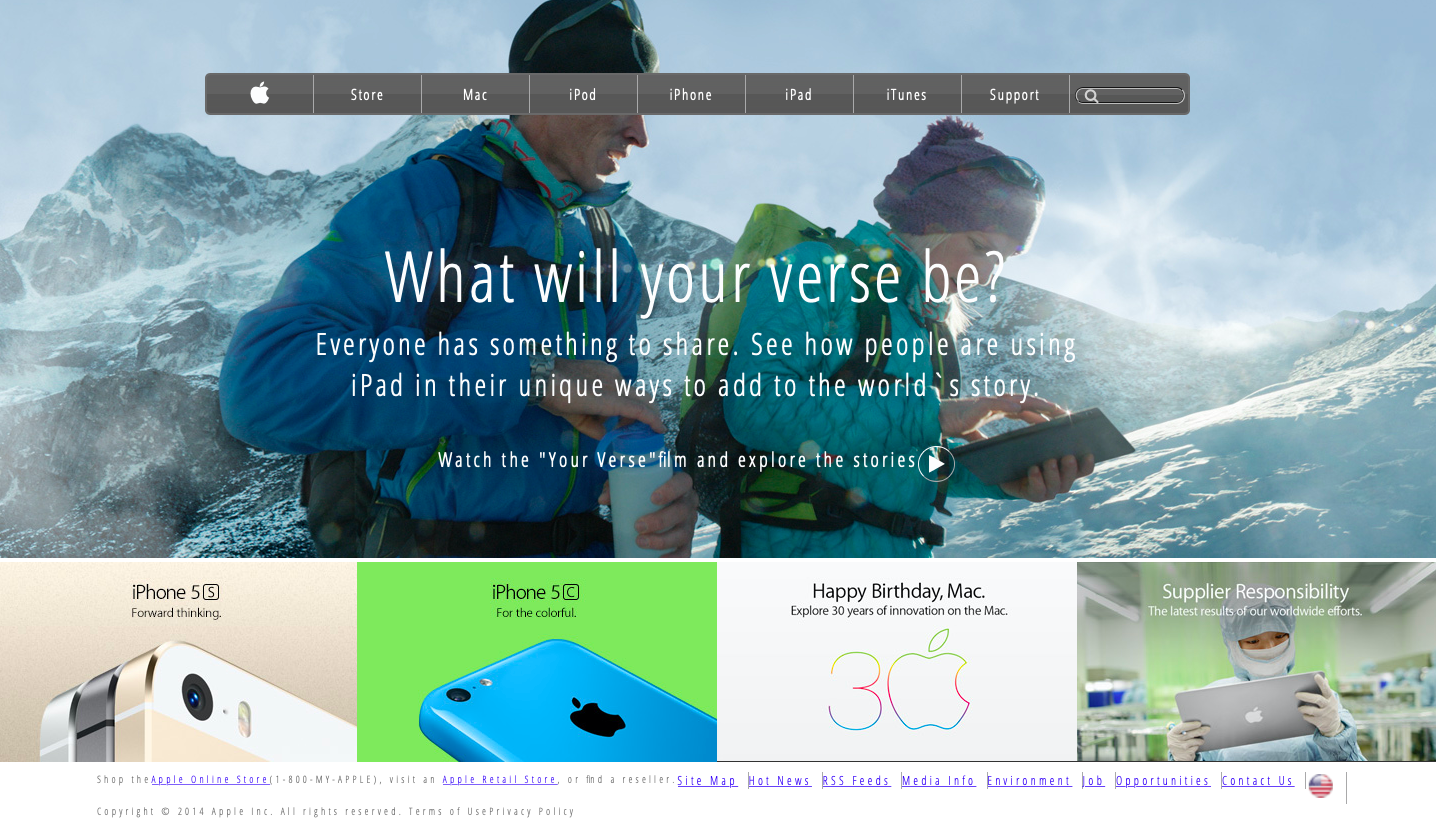
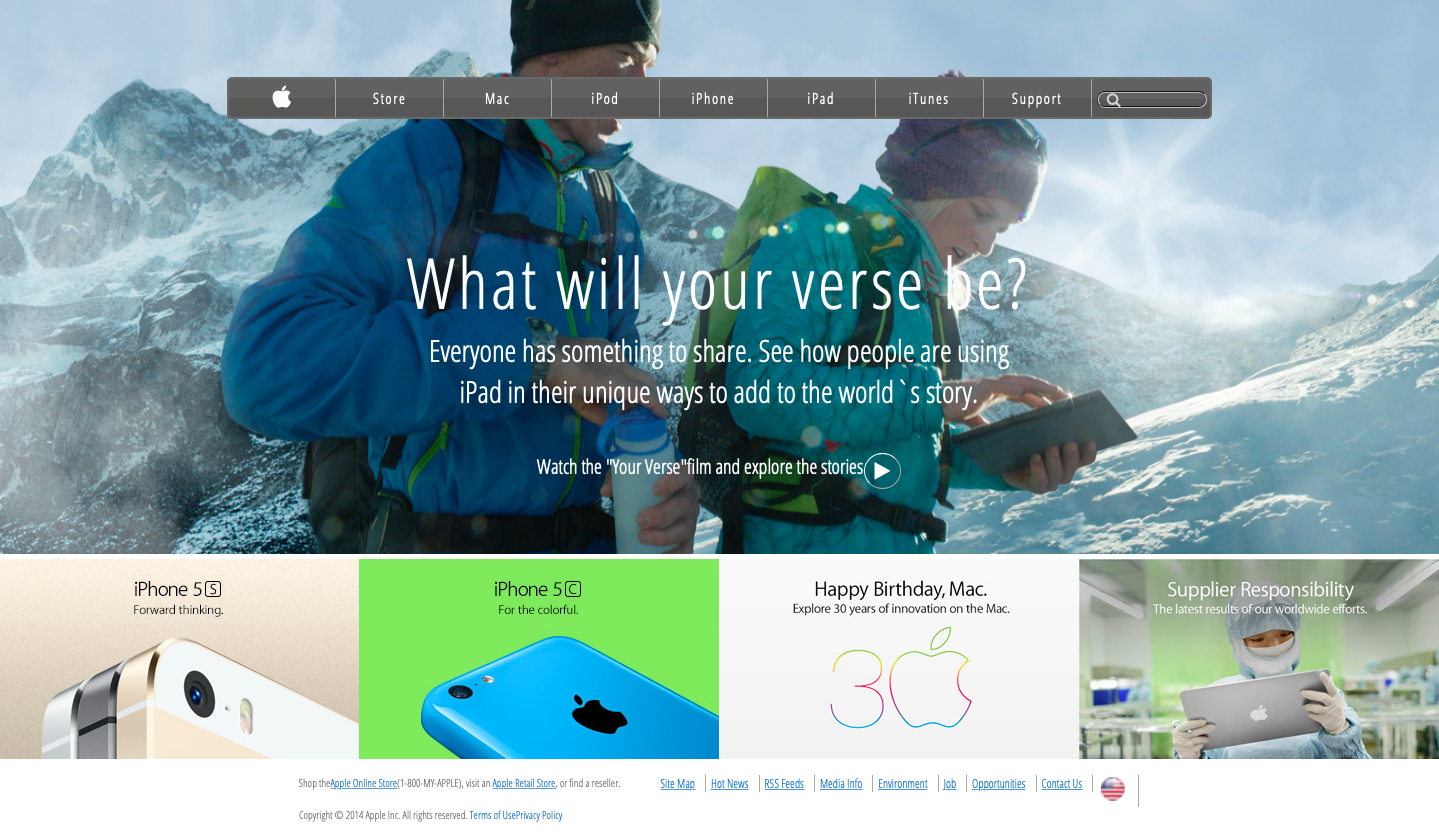
added a picture os the page

diff --git a/index.html b/index.html
@@ -29,13 +29,13 @@
                 </nav>
             </header>
             <div class="text-main">
-                <h1 id="tittle">What will your verse be?</h1>
+                <h1 class="tittle">What will your verse be?</h1>
                 <p>Everyone has something to share. See how people are using </p>
                 <p>iPad in their unique ways to add to the world`s story.</p>
                 <br>
                 <div class="video-link">
                     <div>
-                        <a id="watch-link" href="/">Watch the "Your Verse"film and explore the stories</a>
+                        <a class="watch-link" href="/">Watch the "Your Verse"film and explore the stories</a>
                     </div>
                     <div>
                         <button class="btn-play">
@@ -51,15 +51,17 @@
                     <a href="/"><img alt="iphone5c" src="./assets/images/promo_iphone5c2.png"></a>
                 </diV>
                 <div class="img-item">
-                    <a href="/"><img alt="promo" src="./assets/images/promo_30_years.png"></a>
+                    <a href="/"><img alt="promo" src="./assets/images/promo_30_years.jpg"></a>
                 </div>
                 <div class="img-item"> 
-                    <a href="/"><img alt="supplier" src="./assets/images/promo_supplier_responsibility.png"></a>    
+                    <a href="/"><img alt="supplier" src="./assets/images/promo_supplier_responsibility.jpg"></a>    
                 </div>     
             </div>
             <footer class="footer">
                 <div class="footer-links">
-                    <p class ="gray p-footer">Shop the<a href="/">Apple Online Store</a>(1-800-MY-APPLE), visit an <a href="/">Apple Retail Store</a>, or find a reseller.</p>
+                    <div class="shop-footer" >
+                        <p class ="gray p-footer">Shop the<a href="/">Apple Online Store</a>(1-800-MY-APPLE), visit an <a href="/">Apple Retail Store</a>, or find a reseller.</p>
+                    </div>
                     <div class="itens-footer">
                         <a class="border-right" href="/">Site Map</a>
                     </div>

diff --git a/README.md b/README.md
@@ -8,7 +8,7 @@ Its a clone of old an old version of the Apple website webpage
 
 ## Built With
 
-- HTML & CSS; 
+- HTML5 & CSS3; 
 
 ## Tools 
 
